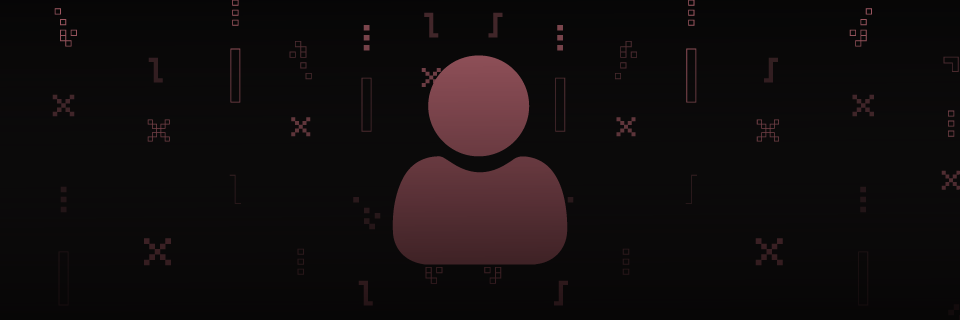
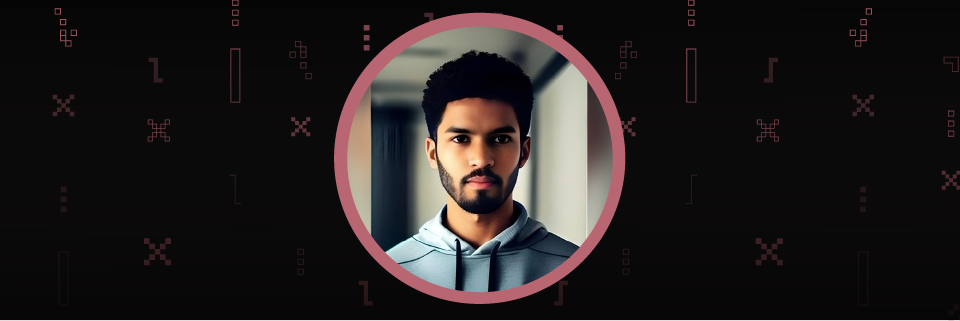
Added the work experience and pic

Changed region(s): [[0.3438, 0.0312, 0.6562, 0.9688], [0.7812, 0.75, 0.8125, 0.7812]]

diff --git a/index.html b/index.html
@@ -64,6 +64,25 @@
 								As a Master's in Game Technology graduate, I am thrilled to pursue my passion for game development and bring imaginative concepts to life. I have a deep love for games that evoke powerful emotions and create unforgettable experiences for players worldwide. With advanced knowledge and expertise in game development, programming concepts, problem-solving, and prototyping, I am dedicated to innovation and constantly pushing the boundaries of game development. I take pride in my work and am committed to improving my programming skills to create captivating games that entertain and engage players globally. As a creative and innovative game developer, I am eager to collaborate with teams and contribute to the development of high-quality games that leave a lasting impact on players. I am excited about the prospect of leveraging my skills to make a positive impact in the gaming industry and bring unforgettable gaming experiences to players worldwide.
 								<br><br>
 							</p>
+							<h3 class="major" >Work Experience</h3>
+
+							<div class="timeline">
+								<ul>
+									<li>
+										<span>Game Programmer</span>
+										<div class="content">
+											<h3 >Hypernova interactive</h3>
+											<p> Bengaluru </p>
+											<div class="bullet-points">
+												<i class="fa-solid fa-circle bullet-point-icons"></i> Specialized in Game Programming <br>
+												<!-- <i class="fa-solid fa-circle point-Marker"></i> Specialized in Game Programming <br> -->
+											</div>
+										</div>
+									</li>
+								</ul>
+							</div>
+
+							
 							<h3 class="major" >Education</h3>
 
 							<div class="timeline">
